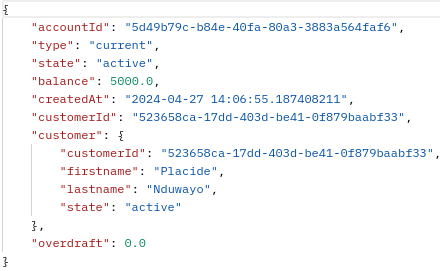
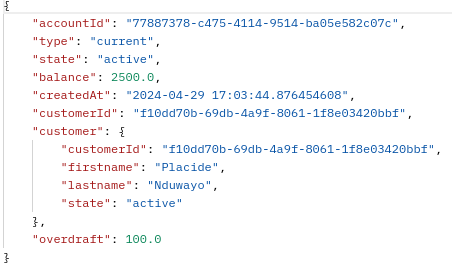
implement update current account overdraft

diff --git a/README.md b/README.md
@@ -76,7 +76,7 @@ le customer api verifie que:
 
 - **[POST]** / **[PUT]**: ```http://localhost:8101/api-bank-account/accounts```: **créer** / **éditer** un bank account  
     - **bank-account api** intérroge le remote **customer api** pour récupérer les infos du customer associé au ***customerId*** fourni par le bank account api  
-![account-customer](./assets/account-customer-post.png)  
+![account-post](./assets/account-customer-post.png)  
 l'api **bank account** verifie que:
     - le ***customer api*** est est ***reachable*** (reachable/unreachable), sinon une business exception et une forme de relience sont retournées à l'utilisateur
     - le ***customer*** associé au ***customerId*** fourni existe, sinon une business exception est renvoyée 
@@ -87,10 +87,11 @@ request payload -> ![account-post](./assets/account-post.png)    request respons
 ![account-customer](./assets/account-customer-post.png)  
 l'api **bank account** verifie que:
     - le compte existe
-    - le compte n'est pas déjà suspendu  
+    - le compte n'est pas déjà dans le même state  
     - le customer api de ce bank account est joignable (reachablea/unreachable) sinon une forme de résilience est renvoyée
+    - le customer state est **active**
     
-request payload ![account-suspend](./assets/account-suspend.png) request response -> ![account-suspend-return](./assets/account-suspend-return.png)  
+request payload ![account-suspend](./assets/switch-state.png) request response -> ![account-suspend-return](./assets/switch-state-return.png.png)  
 - **[POST]**: ```http://localhost:8101/api-bank-account/accounts/overdraft```: **update** le découvert d'un bank account  
 ![account-customer](./assets/account-customer-post.png)  
 l'api **bank account** verifie que:
